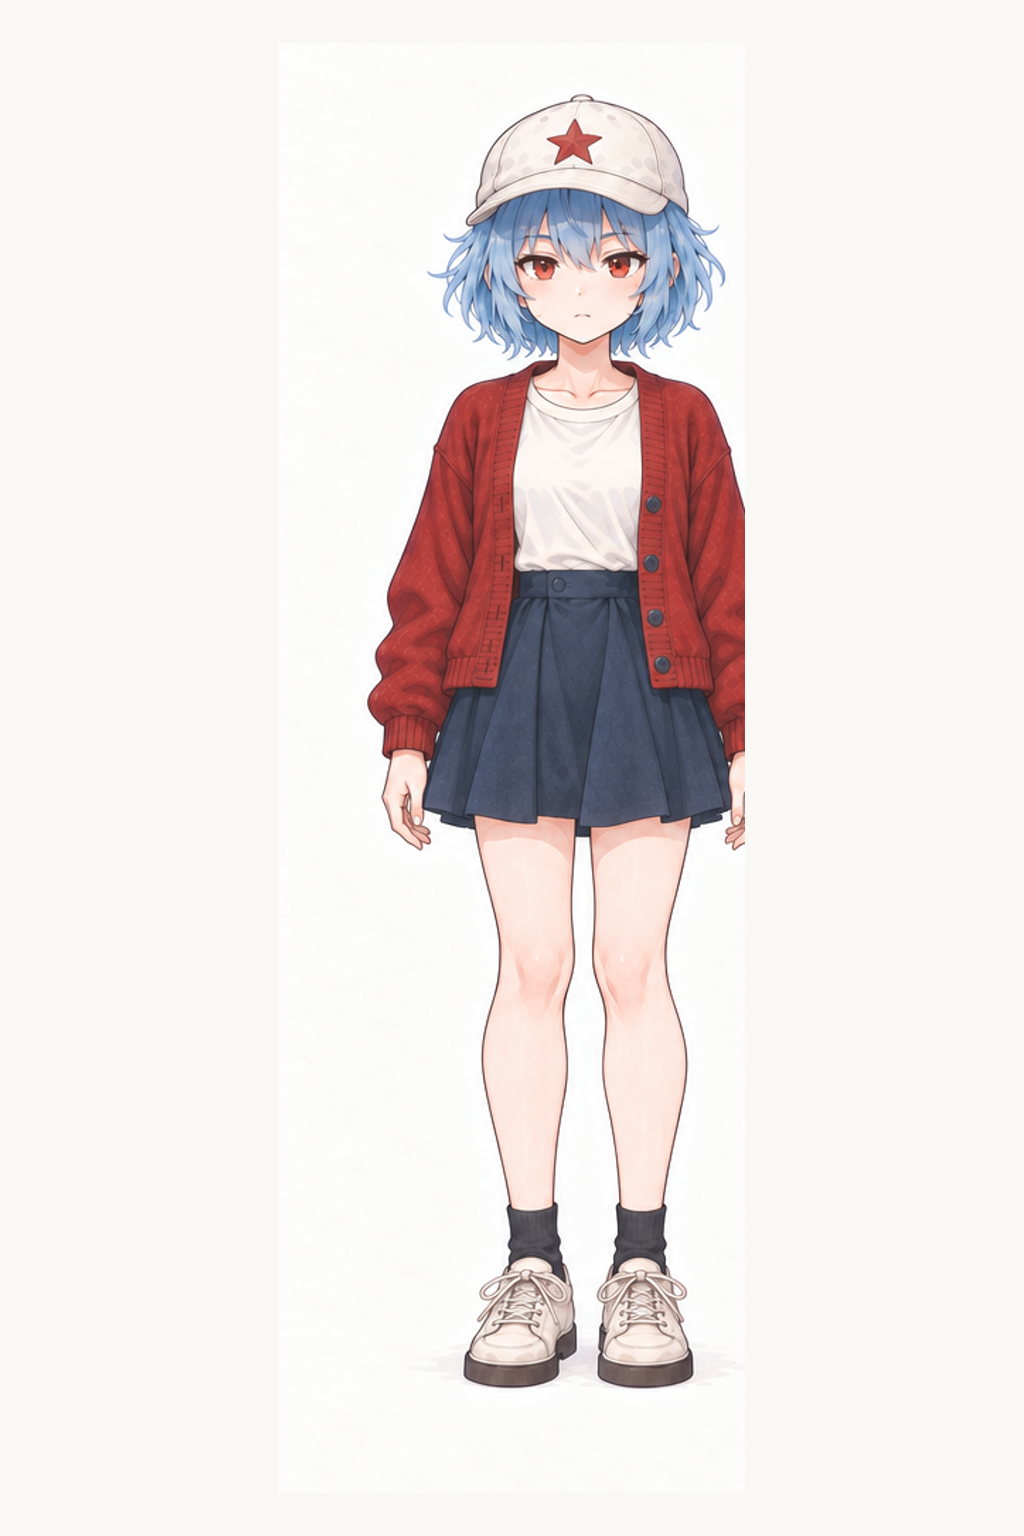
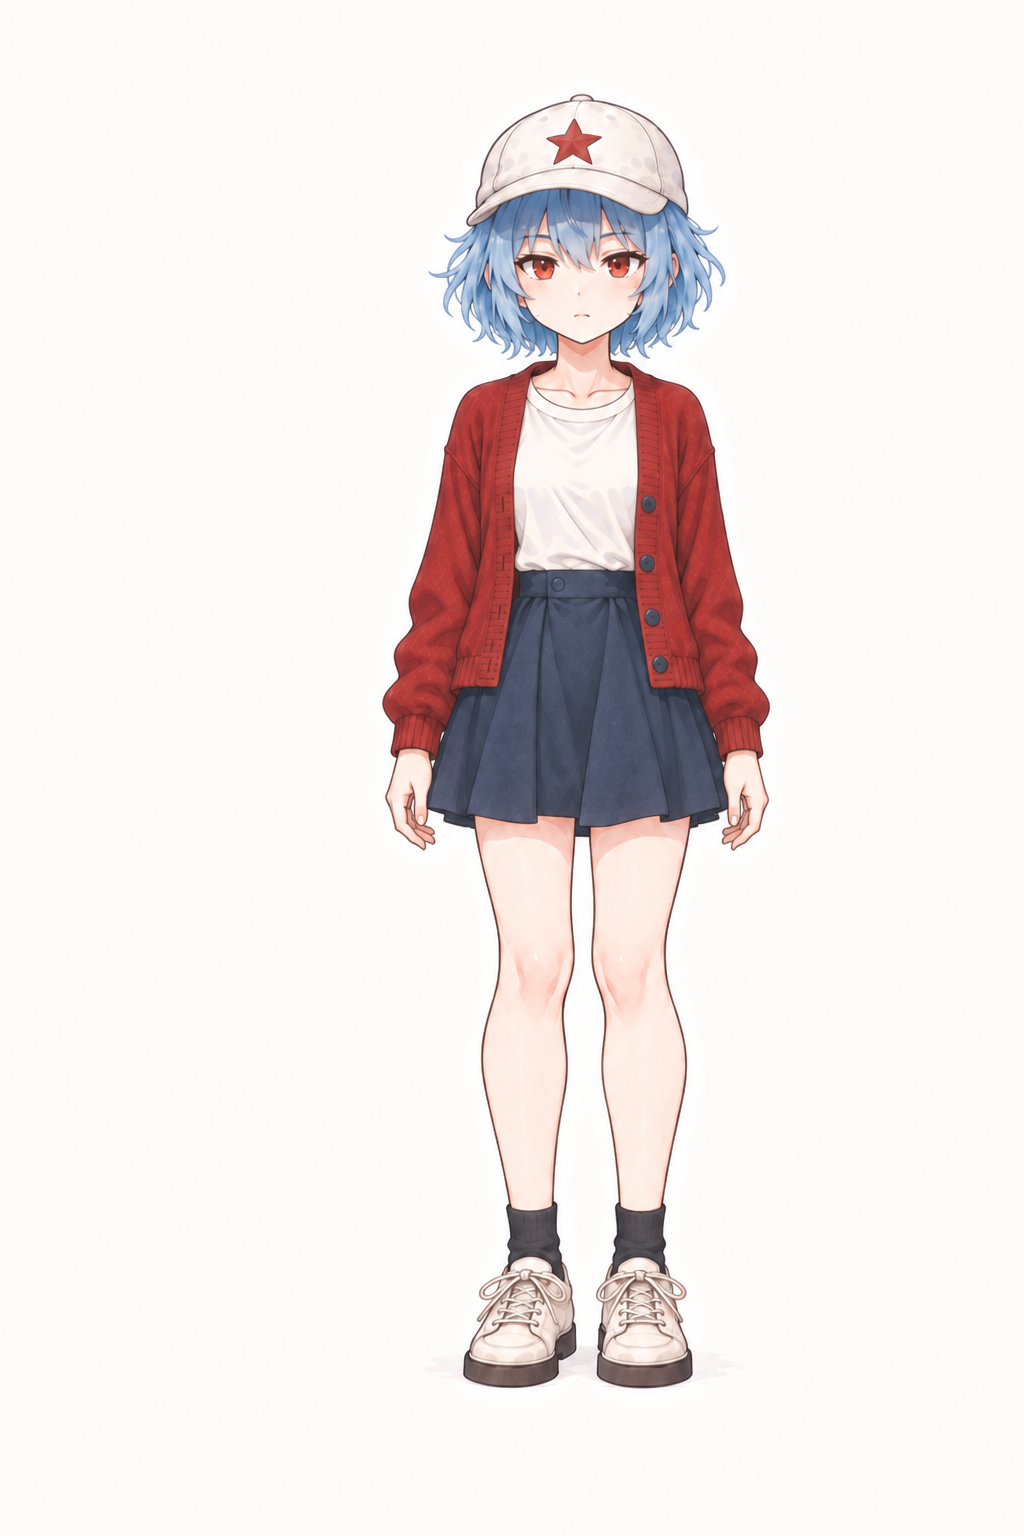
fix: refine V2.2 shoulder proportions

diff --git a/kevinbee-illustrations/references/character-model-v2.2.md b/kevinbee-illustrations/references/character-model-v2.2.md
@@ -22,7 +22,7 @@
 
 ### V2.2 正文轻 Q 层
 
-`v2.2/00-q-form-master-front.png` 是正文正面母版，约 4.0–4.5 头身。它不是标准形态的整体缩小版：人物仍保留成年脸、肩腰胯和膝盖结构，通过相对放大头部、适度缩短躯干与四肢，以及同步缩短服装形成轻 Q 感。
+`v2.2/00-q-form-master-front.png` 是正文正面母版，约 4.0–4.5 头身。它不是标准形态的整体缩小版：人物仍保留成年脸、肩腰胯和膝盖结构，通过相对放大头部、适度缩短躯干与四肢，以及同步缩短服装形成轻 Q 感。正面母版的肩线已收窄；跨角度生成时保持肩点自然下落、上臂衣袖适度松弛，不恢复宽方形的开衫外轮廓。
 
 `v2.2/01-q-form-four-view.png` 在同一张画布内生成正面、正面三分之四、纯侧面和背面，是跨角度比例真值。人工检查时对齐：
 
@@ -52,7 +52,8 @@
 - 不改变刘海分区、下巴长度短发与两侧稍长发束；
 - 不改变白帽、居中红星与帽檐结构；
 - 开衫缩到高胯附近，裙摆缩到大腿中上段；
-- 肩宽适度保留，头宽不能等于整个身体宽；
+- 肩宽与头、腰、胯自然协调，肩点略收、肩线柔和下倾；头宽不能等于整个身体宽，也不靠扩大头部或胯部伪造窄肩；
+- 开衫可有轻微落肩和针织松量，但肩缝不过分外移，上臂与肘部不鼓成宽方形；
 - 手掌、膝盖、小腿与鞋保持明确结构，不做短粗幼儿肢体；
 - 人物在画布中的总高度由构图决定，不能通过把整个人缩小来伪造 Q 感。
 
@@ -77,7 +78,7 @@
 
 1. 帽、星、刘海、侧发束和后发轮廓是否符合对应角度。
 2. 开衫是否为敞开穿着；正面纽扣与背面结构是否正确。
-3. 开衫下摆、裙腰、裙摆、膝盖、袜筒和鞋底是否保持同一套高度关系。
+3. 肩点、肩线和上臂衣袖是否在各角度保持轻巧协调；开衫下摆、裙腰、裙摆、膝盖、袜筒和鞋底是否保持同一套高度关系。
 4. Q 感是否来自内部比例，而非总身高突然变矮、身体被截短或脸部幼化。
 5. 是否保持成年、休闲、自然和独立，而非儿童、偶像、制服、服务或战斗角色。
 

diff --git a/kevinbee-illustrations/references/ip-core.md b/kevinbee-illustrations/references/ip-core.md
@@ -24,7 +24,7 @@
 
 - 使用成年感的轻 Q 比例，静态约 4.0–4.5 头身；动态可自然延展到约 4.0–4.7 头身，但不能回到标准形态的修长比例。
 - Q 感来自相对放大的头部、适度缩短的躯干和四肢，以及同步缩短的服装；不得把正常角色整体压矮或做成幼儿体型。
-- 保留清楚的肩、腰、胯、膝盖、手掌与鞋型，眼睛和脸型不继续幼化。
+- 保留清楚的肩、腰、胯、膝盖、手掌与鞋型；肩线自然微斜，肩与腰胯的关系轻巧协调，眼睛和脸型不继续幼化。
 - 开衫下摆在高胯附近，裙摆在大腿中上段，避免标准长衣服套在缩短身体上。
 - 常规视角使用 `assets/ip-reference/v2.2/00-q-form-master-front.png`；特殊角度使用 `assets/ip-reference/v2.2/q-form-views/` 中的对应单图。标准比例母版用于人工核对身份，不与正文全身角度图默认混载。
 
@@ -40,7 +40,7 @@
 
 - 白色红星棒球帽。
 - 象牙白或浅米色圆领宽松上衣。
-- 腰部至胯部长度的柔和暗红色针织开衫；落肩、略宽松袖、简单罗纹、完整下摆。
+- 腰部至胯部长度的柔和暗红色针织开衫；轻微落肩、自然松量的袖子、简单罗纹、完整下摆。开衫可以柔软，但上臂外轮廓不应把肩膀撑成方形宽块。
 - 藏青或炭灰 A 字短裙；动作幅度较大时可替换为同色宽松短裤。
 - 深灰短袜。
 - 米白或浅灰系带休闲鞋，深炭灰鞋底。

diff --git a/kevinbee-illustrations/references/article-body-prompt.md b/kevinbee-illustrations/references/article-body-prompt.md
@@ -9,7 +9,7 @@ Use case: illustration-story
 Asset type: standalone 16:9 Chinese article-body illustration
 
 Identity reference:
-Image 1 is the closest KevinBee V2.2 light-chibi article-form reference. Preserve its adult identity, relatively enlarged head, clear shoulder-waist-hip structure, moderately shortened limbs, short high-hip cardigan, upper-thigh skirt, hair, hat, palette and angle structure. Keep the character's apparent standing height; do not create chibi form by shrinking the whole person or by turning the face and limbs childlike. Dynamic poses may lengthen only enough to stay natural and must remain visibly more compact than the standard character form.
+Image 1 is the closest KevinBee V2.2 light-chibi article-form reference. Preserve its adult identity, relatively enlarged head, softly sloping and balanced shoulder-waist-hip structure, moderately shortened limbs, short high-hip cardigan, upper-thigh skirt, hair, hat, palette and angle structure. Keep the cardigan casually soft while avoiding an exaggerated drop shoulder or bulky squared upper-sleeve silhouette. Keep the character's apparent standing height; do not create chibi form by shrinking the whole person or by turning the face and limbs childlike. Dynamic poses may lengthen only enough to stay natural and must remain visibly more compact than the standard character form.
 {从 ip-core.md 的“提示词身份片段”取用必要内容；参考图已经稳定时可缩短}
 
 Core idea:

diff --git a/tests/article-body/v2.2-shoulder-proportion/README.md b/tests/article-body/v2.2-shoulder-proportion/README.md
@@ -1,0 +1,9 @@
+# V2.2 肩线比例前向测试
+
+问题：原正文母版的落肩与蓬松袖共同形成偏宽、偏方的上半身外轮廓，并被四视图延续。
+
+处理：更新正面母版、四视图和三个单角度参考。收进肩点，让肩线自然下倾，减小上臂衣袖的外扩；保留凯冰的脸、白帽红星、冰蓝短发、暗红开衫、成年轻 Q 比例和服装层级。
+
+`01-forward-test.png` 使用更新后的三分之四视角参考，复测“跨入临时边界并携带一个可能”的正文隐喻。肩部外轮廓比旧测试图 `../v2.2-metaphor-variation/images/final/03b-causal-commitment.png` 更收敛，角色身份和因果参与保留。图像工具直接输出 1672×941 的近 16:9 画幅；此图仅用于比例前向测试，不替换原文章配图。
+
+V2.2 动作与表情可选池未重新生成；它们只提供动作或表情线索，肩线与袖型以更新后的正文母版和四视图为准。旧资产版本可从 Git 历史追溯。

diff --git a/kevinbee-illustrations/references/qa-checklist.md b/kevinbee-illustrations/references/qa-checklist.md
@@ -15,6 +15,7 @@
 - 白色休闲棒球帽与正面红星清楚可见。
 - 冰蓝短发、暗红针织开衫和正文轻 Q 形态保持稳定；Q 感来自内部比例与服装同步缩短，不是把整个人压矮。
 - 开衫下摆在高胯附近，裙摆在大腿中上段；头顶、腰线、裙摆、膝盖和脚底不能在不同角度明显漂移。
+- 肩线自然下倾，肩宽与腰胯协调；开衫保留柔软松量，但上臂外轮廓不把人物撑成宽方形。不要靠放大头部或胯部修饰肩宽。
 - 服装没有漂移为斗篷、战斗服、制服或工作服。
 - 没有武器、战术装备、英雄式姿态或服务人员气质。
 - 表情自然克制，不甜腻、不幼态、不表情包化。
